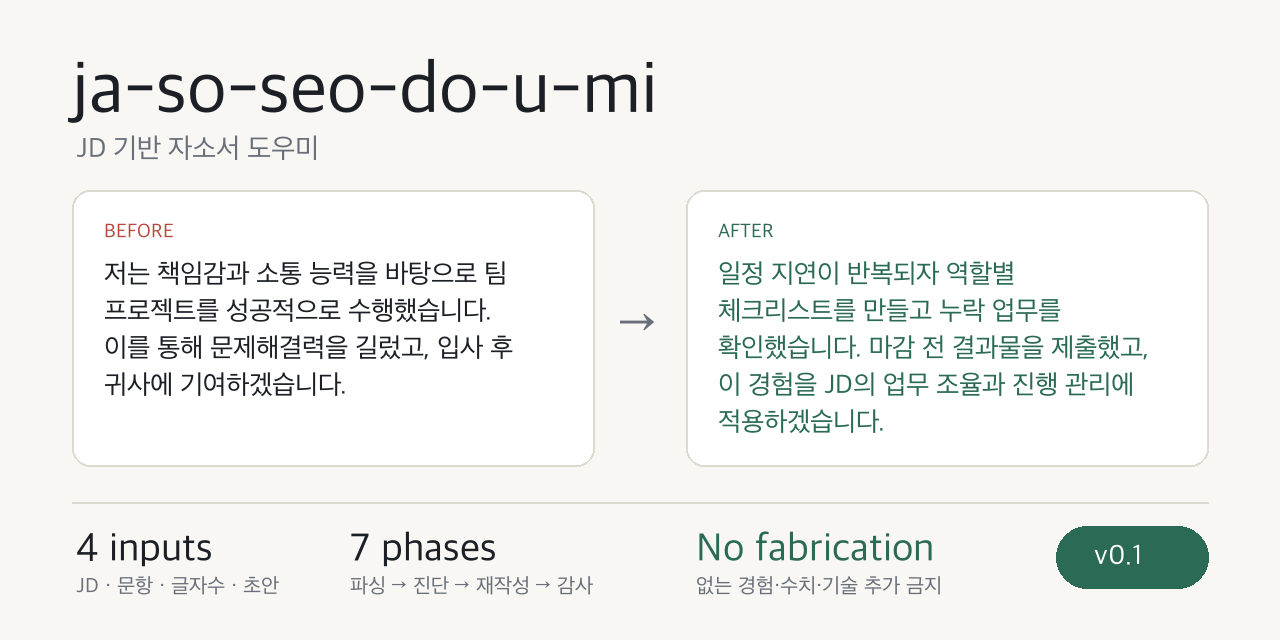
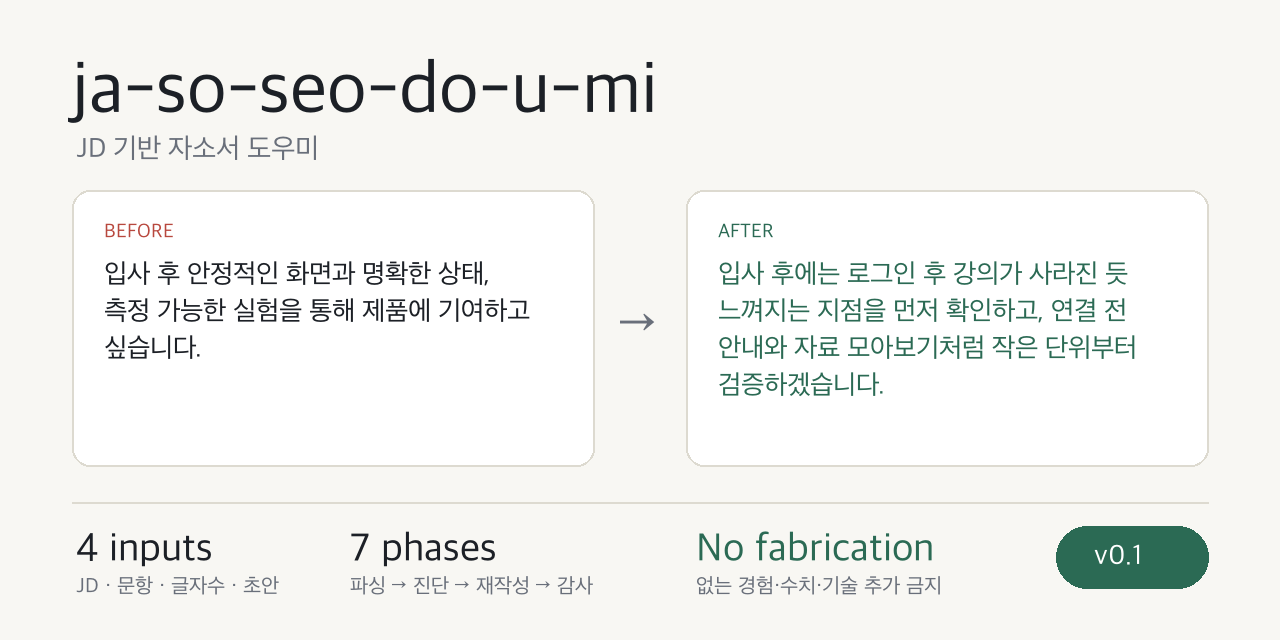
fix: 소셜 미리보기 이미지 및 스크립트 수정

Changed region(s): [[0.5625, 0.4062, 0.9062, 0.6875], [0.0625, 0.4062, 0.4375, 0.625]]

diff --git a/scripts/make_social_preview.py b/scripts/make_social_preview.py
@@ -91,12 +91,12 @@ d.text((104, 220), "BEFORE", font=label_f, fill=BAD)
 d.text((718, 220), "AFTER", font=label_f, fill=GOOD)
 
 before = (
-    "저는 책임감과 소통 능력을 바탕으로 팀 프로젝트를 성공적으로 수행했습니다. "
-    "이를 통해 문제해결력을 길렀고, 입사 후 귀사에 기여하겠습니다."
+    "입사 후 안정적인 화면과 명확한 상태, 측정 가능한 실험을 통해 "
+    "제품에 기여하고 싶습니다."
 )
 after = (
-    "일정 지연이 반복되자 역할별 체크리스트를 만들고 누락 업무를 확인했습니다. "
-    "마감 전 결과물을 제출했고, 이 경험을 JD의 업무 조율과 진행 관리에 적용하겠습니다."
+    "입사 후에는 로그인 후 강의가 사라진 듯 느껴지는 지점을 먼저 확인하고, "
+    "연결 전 안내와 자료 모아보기처럼 작은 단위부터 검증하겠습니다."
 )
 
 text_block(d, (104, 258), before, body_f, INK, 438, 10)